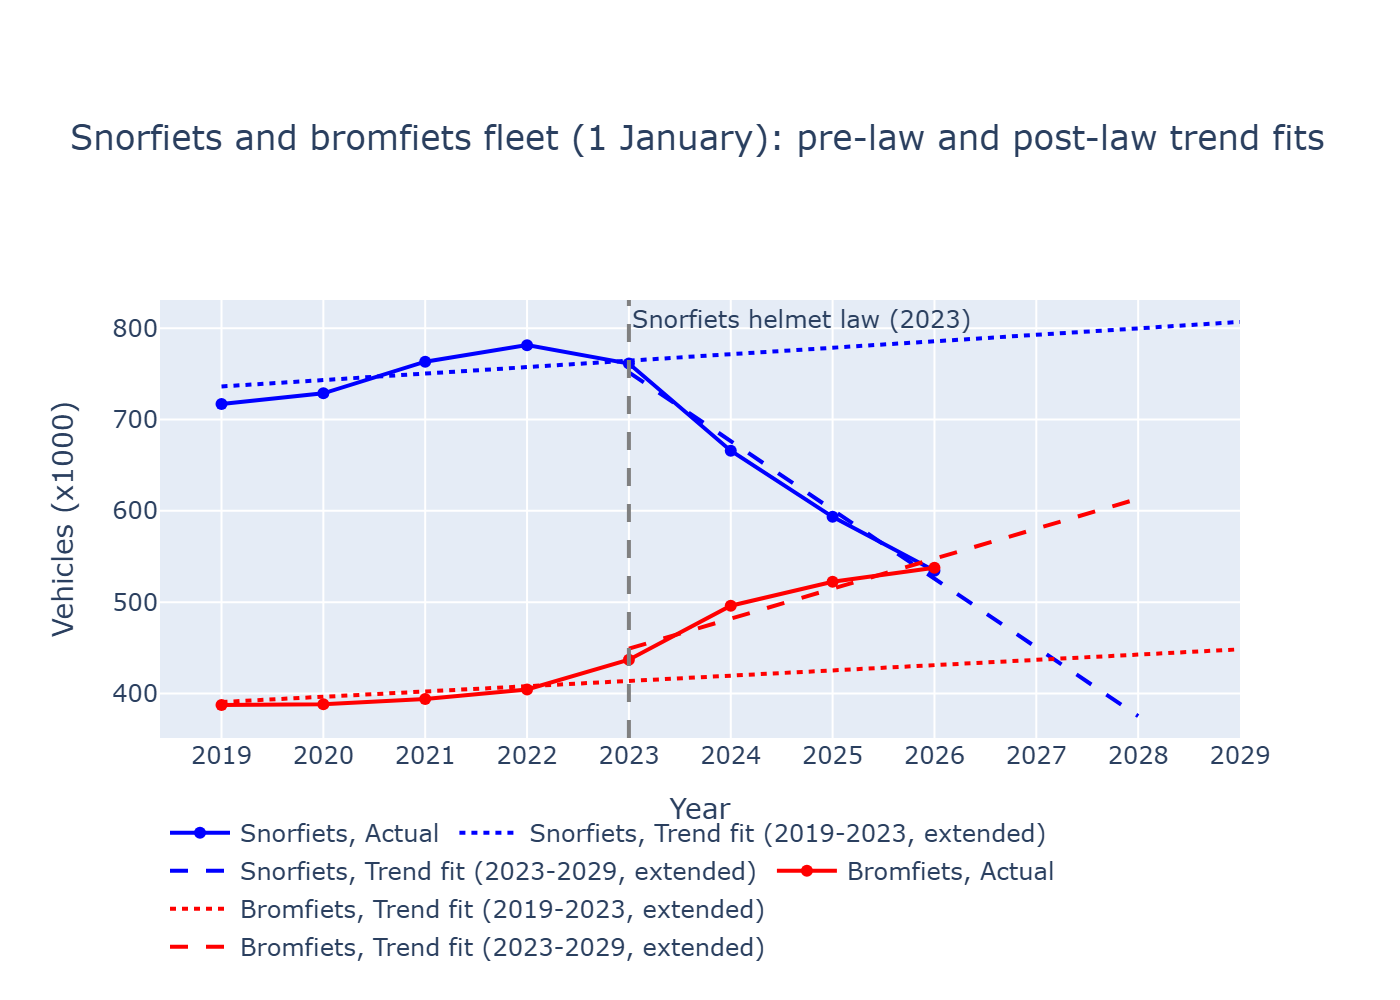
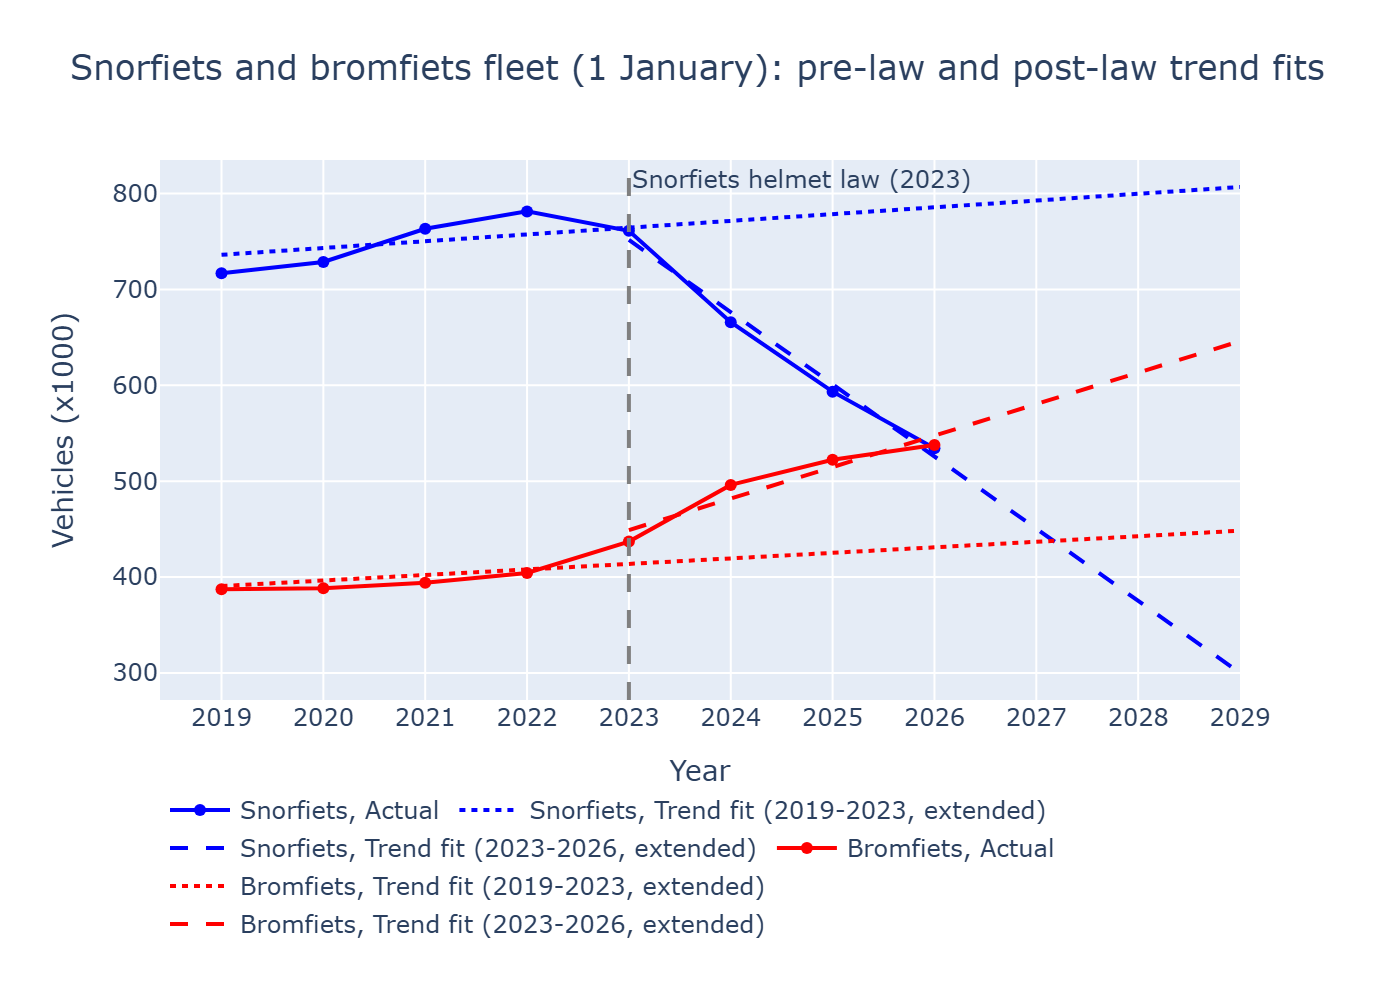
Cleaned up structe and added explainatory text

diff --git a/code/Question2_Mandatory_Helmet_Teens_prediction.py b/code/Question2_Mandatory_Helmet_Teens_prediction.py
@@ -10,6 +10,8 @@
 
 # Sources:
 # https://neo4j.com/blog/graph-data-science/build-predictive-model-python/
+# Aanvullende module Bewegen en Ongevallen van de Leefstijlmonitor, CBS i.s.m. RIVM 2021. Aandeel fietsers 2021-2025
+# https://www.cbs.nl/nl-nl/visualisaties/verkeer-en-vervoer/vervoermiddelen-en-infrastructuur/bromfietsen-snorfietsen
 
 # what do i need?
 # 1. Population growth "snorfiets pupulation"
@@ -25,40 +27,38 @@
 # AI statement I only used Claude Sonnet 5.5 during this assignment for discussing the data structures, 
 # getting help with understanding linear fit implementation in python and making the graphs show the information better.
 
-
-
 import numpy as np
 import pandas as pd
 import plotly.express as px
 import plotly.io as pio
-pio.renderers.default = "notebook"
 from pathlib import Path
 
+pio.renderers.default = "notebook"
+DATA_DIR = Path("data")
 
 # ---------------------- Settings (change these to run sensitivity checks) ---------------------- #
 Snorfiets_Wetgeving_Ingang  = 2023              # national helmet obligation for snorfiets
 Start_Fit                   = 2019              # 
 Covid                       = []                # e.g. [2020, 2021] to leave out the COVID years
 End_Year                    = 2029              # end of the prediction horizon
-Start_Law                   = 2027 #+ 8 / 12    # planned: 1 September 2027
+Start_Law                   = 2027 + 8 / 12     # planned start of the law: 1 September 2027
 Survey_Moment               = 0.5               # treat each e-bike survey year as measured mid-year
 Pre_Flatten                 = 0.5               # 1 = normal least-squares slope, 0 = flat line at the window mean
 
 # ---------------------- Load the data ---------------------- #
-moped_possesion = pd.read_csv(
-    'data/Voertuigen met een bromfietskenteken, 1 januari (x 1 000).csv',
-    sep=';', decimal=',')
+moped_possesion = pd.read_csv(DATA_DIR / "Voertuigen met een bromfietskenteken, 1 januari (x 1 000).csv", sep=";", decimal=",")
 
 # filter the data 
 moped_possesion_filtered = moped_possesion[["Jaar", "Snorfiets", "Bromfiets"]]
 
-# RIVM/CBS Leefstijlmonitor, 12-17 year-olds: share of cycling 12-17 year-olds
-# that cycles electrically (alone or combined with a normal bike)
-ebike_minors = pd.read_csv('data\(Elektrisch)_fietsen_onder_jongeren.csv', sep=';')
+# RIVM/CBS Leefstijlmonitor, 12-17 year-olds, in % of the cycling 12-17 year-olds
+ebike_minors = pd.read_csv(Path("data") / "(Elektrisch)_fietsen_onder_jongeren.csv", sep=';')
+
 ebike_filtered = (ebike_minors[ebike_minors["soort_fiets"] == "elektrisch"]
                   .rename(columns={"jaar": "Jaar", "percentage": "Elektrisch fietsen"})
                   [["Jaar", "Elektrisch fietsen"]]
                   .reset_index(drop=True))
+
 bike_filtered = (ebike_minors[ebike_minors["soort_fiets"] == "uitsluitend_niet_elektrisch"]
                   .rename(columns={"jaar": "Jaar", "percentage": "Normale fietsen"})
                   [["Jaar", "Normale fietsen"]]
@@ -66,7 +66,7 @@ bike_filtered = (ebike_minors[ebike_minors["soort_fiets"] == "uitsluitend_niet_e
 # Used Claude in determining how to read the data
 
 
-# ---------------------- Linear trend fit ---------------------- #
+# ---------------------- Linear trend fit function ---------------------- #
 
 def linear_fit(years, values, exclude=(), flatten=1.0):
     """Least-squares line through (years, values); returns slope, intercept."""
@@ -80,30 +80,30 @@ def linear_fit(years, values, exclude=(), flatten=1.0):
         intercept = y0 - slope *x0
     return slope, intercept
 
-
-
 # ----------------------  Graph 1: snorfiets and bromfiets + trend fits ---------------------- #
 
-pre_law     = moped_possesion_filtered[moped_possesion_filtered["Jaar"].between(Start_Fit, Snorfiets_Wetgeving_Ingang)]
-post_law    = moped_possesion_filtered[moped_possesion_filtered["Jaar"] >= Snorfiets_Wetgeving_Ingang]
-
-years_all   = np.arange(Start_Fit, End_Year + 1)
-years_Pre   = np.arange(Start_Fit, Snorfiets_Wetgeving_Ingang +1)
-years_after = np.arange(Snorfiets_Wetgeving_Ingang, End_Year)
-
-Trend_pre       = f"Trend fit ({Start_Fit}-{Snorfiets_Wetgeving_Ingang}, extended)"
-Trend_after     = f"Trend fit ({Snorfiets_Wetgeving_Ingang}-{End_Year}, extended)"
+pre_law  = moped_possesion_filtered[moped_possesion_filtered["Jaar"].between(Start_Fit, Snorfiets_Wetgeving_Ingang)]
+post_law = moped_possesion_filtered[moped_possesion_filtered["Jaar"] >= Snorfiets_Wetgeving_Ingang]  # 2023 is the shared anchor
+last_actual_year = int(post_law["Jaar"].max())
+ 
+years_all   = np.arange(Start_Fit, End_Year + 1)                    # pre-law trend,  extended to the horizon
+years_after = np.arange(Snorfiets_Wetgeving_Ingang, End_Year + 1)   # post-law trend, extended to the horizon
+ 
+Trend_pre   = f"Trend fit ({Start_Fit}-{Snorfiets_Wetgeving_Ingang}, extended)"
+Trend_after = f"Trend fit ({Snorfiets_Wetgeving_Ingang}-{last_actual_year}, extended)"
 
 
 pre_fits    = {}
 post_fits   = {}
 frames      = []
+
 for vehicle in ["Snorfiets", "Bromfiets"]:
-    pre_fits[vehicle]  = linear_fit(pre_law["Jaar"], pre_law[vehicle], Covid, flatten=Pre_Flatten)
+    pre_fits [vehicle]  = linear_fit(pre_law["Jaar"], pre_law[vehicle], Covid, flatten=Pre_Flatten)
     post_fits[vehicle] = linear_fit(post_law["Jaar"], post_law[vehicle])
-    slope_pre,  icpt_pre  = pre_fits[vehicle]
+    slope_pre,  icpt_pre  = pre_fits [vehicle]
     slope_post, icpt_post = post_fits[vehicle]
 
+# Make dataframes for the 
     frames.append(pd.DataFrame({
         "Year": moped_possesion_filtered["Jaar"],
         "Vehicles (x1000)": moped_possesion_filtered[vehicle],
@@ -140,17 +140,16 @@ fig1.update_xaxes(dtick=1)
 
 fig1.update_layout(
     legend=dict(
-        orientation="h",      # horizontal, so it spreads across the top
+        orientation="h",       
         yanchor="top",
-        y=-0.15,              # just above the plot area
+        y=-0.15,               
         xanchor="left",
         x=0,
-        title_text=""),       # removes the "Vehicle, Type" legend title
-    margin=dict(t=150))       # extra room at the top for the title and legend
+        title_text=""),        
+    margin=dict(t=80, b=150)) 
 
 # ----------------------  Law effect from the snorfiets data  ---------------------- #
 #    effect(t) = 1 - actual / trend-without-law, t = years since the law
-#    (counts are on 1 January, so 2024 = one year after the 2023 law)
 
 snor    = moped_possesion_filtered.set_index("Jaar")["Snorfiets"]
 slope_s, intercept_s = pre_fits["Snorfiets"]          # was: fits["Snorfiets"]
@@ -159,74 +158,89 @@ post    = gap[gap.index > Snorfiets_Wetgeving_Ingang]
 
 effect_t = np.concatenate([[0], (post.index - Snorfiets_Wetgeving_Ingang).to_numpy()])
 effect_v = np.concatenate([[0], post.to_numpy()])
-print("Effect curve (years since law -> share below trend):")
-for t, e in zip(effect_t, effect_v):
-    print(f"  t={t:.0f}: {e:.1%}")
+
+# Check if effect gets calculated 
+# print("Effect curve (years since law -> share below trend):")
+# for t, e in zip(effect_t, effect_v):
+#     print(f"  t={t:.0f}: {e:.1%}")
 
 
 # ---------------------- Graph 2: underage e-bike users, no-law trend vs. with-law trend ---------------------- #
 
 slope_ebikes, intercept_ebikes = linear_fit(ebike_filtered["Jaar"], ebike_filtered["Elektrisch fietsen"])
-slope_bikes , intercept_bikes  = linear_fit(bike_filtered["Jaar"], bike_filtered["Normale fietsen"])
 
 years_bikes = np.arange(ebike_filtered["Jaar"].min(), End_Year + 1)
 baseline_ebikes = slope_ebikes * years_bikes + intercept_ebikes
-baseline_bikes  = slope_bikes  * years_bikes  + intercept_bikes
 
-
-# years since the (planned) e-bike law at each survey moment; np.interp gives 0
-# before the law and holds the last observed effect after year 3
+# years since the (planned) e-bike law at each survey moment
 t_since_law = years_bikes + Survey_Moment - Start_Law
+
 effect = np.interp(t_since_law, effect_t, effect_v)
 with_law = baseline_ebikes * (1 - effect)
+
+# These baselines are for maintainting a 100% "usage" scenario, 
+# with the assumption that those who stop using e-bikes are goint to use normal bikes again
 baseline_non_ebikes = 100 - baseline_ebikes
 with_law_non_ebikes = 100 - with_law
 
-ACT_E     = "Actual e-bike use (RIVM/CBS)"
-ACT_N     = "Actual normal bike use (RIVM/CBS)"
-NO_LAW    = "Prediction without law (trend)"
-LAW       = "Prediction with law (snorfiets effect)"
+GROUP_E = "Electric (incl. mixed use)"
+GROUP_N = "Non-electric only"
+ACTUAL  = "Actual (RIVM/CBS)"
+NO_LAW  = "Prediction without law (trend)"
+LAW     = "Prediction with law (snorfiets effect)"
 
-last_obs = ebike_filtered["Jaar"].max()
+last_obs  = ebike_filtered["Jaar"].max()
 from_last = years_bikes >= last_obs
-df_ebike = pd.concat([
-    pd.DataFrame({"Year": ebike_filtered["Jaar"],
-                  "% of cycling 12-17 year-olds": ebike_filtered["Elektrisch fietsen"],
-                  "Series": ACT_E}),
-    pd.DataFrame({"Year": bike_filtered["Jaar"],
-                  "% of cycling 12-17 year-olds": bike_filtered["Normale fietsen"],
-                  "Series": ACT_N}),
-    pd.DataFrame({
-        "Year": years_bikes,
-        "% of cycling 12-17 year-olds": baseline_non_ebikes,
-        "Series": "Non-e-bike population (without law)"}),
-    pd.DataFrame({
-        "Year": years_bikes[from_last],
-        "% of cycling 12-17 year-olds": with_law_non_ebikes[from_last],
-        "Series": "Non-e-bike population (with law)"
-    }),
-    pd.DataFrame({"Year": years_bikes, "% of cycling 12-17 year-olds": baseline_ebikes, "Series": NO_LAW}),
-    pd.DataFrame({"Year": years_bikes[from_last],"% of cycling 12-17 year-olds": with_law[from_last], "Series": LAW}),
-], ignore_index=True)
+# Making dataframes for eacht section of the timeline, current and speculation with and without the law 
+# --- e-bike users ---
+df_actual_e = pd.DataFrame({
+    "Year": ebike_filtered["Jaar"],
+    "% of cycling 12-17 year-olds": ebike_filtered["Elektrisch fietsen"],
+    "Group": GROUP_E,
+    "Type": ACTUAL})
+
+df_no_law_e = pd.DataFrame({
+    "Year": years_bikes,
+    "% of cycling 12-17 year-olds": baseline_ebikes,
+    "Group": GROUP_E,
+    "Type": NO_LAW})
+
+df_law_e = pd.DataFrame({
+    "Year": years_bikes[from_last],
+    "% of cycling 12-17 year-olds": with_law[from_last],
+    "Group": GROUP_E,
+    "Type": LAW})
+
+# --- non-electric users ---
+df_actual_n = pd.DataFrame({
+    "Year": bike_filtered["Jaar"],
+    "% of cycling 12-17 year-olds": bike_filtered["Normale fietsen"],
+    "Group": GROUP_N,
+    "Type": ACTUAL})
+
+df_no_law_n = pd.DataFrame({
+    "Year": years_bikes,
+    "% of cycling 12-17 year-olds": baseline_non_ebikes,
+    "Group": GROUP_N,
+    "Type": NO_LAW})
+
+df_law_n = pd.DataFrame({
+    "Year": years_bikes[from_last],
+    "% of cycling 12-17 year-olds": with_law_non_ebikes[from_last],
+    "Group": GROUP_N,
+    "Type": LAW})
+
+df_ebike = pd.concat([df_actual_e, df_no_law_e, df_law_e,
+                      df_actual_n, df_no_law_n, df_law_n], ignore_index=True)
 
 fig2 = px.line(
     df_ebike, x="Year", y="% of cycling 12-17 year-olds",
-    color="Series", line_dash="Series", markers=True,
-    color_discrete_map = {
-        ACT_E: "black",
-        ACT_N:  "red",
-        NO_LAW: "green",
-        LAW: "orange",
-        "Non-e-bike population (without law)": "lightgreen",
-        "Non-e-bike population (with law)": "gold"},
-    line_dash_map ={
-        ACT_E   :"solid", 
-        ACT_N   :"solid", 
-        NO_LAW  :"dot",   
-        LAW     :"dash"},
+    color="Group", line_dash="Type", markers=True,
+    color_discrete_map={GROUP_E: "green", GROUP_N: "purple"},
+    line_dash_map={ACTUAL: "solid", NO_LAW: "dot", LAW: "dash"},
     title="Underage (12-17) e-bike use: continued growth vs. helmet law")
 
-fig2.for_each_trace(lambda t: t.update(mode="lines") if t.name not in (ACT_E, ACT_N) else None)
+fig2.for_each_trace(lambda t: t.update(mode="lines") if ACTUAL not in t.name else None)
 
 fig2.add_vline(x=Start_Law, line_dash="dash", line_color="grey",
                annotation_text="Planned helmet law")
@@ -234,17 +248,18 @@ fig2.add_vline(x=Start_Law, line_dash="dash", line_color="grey",
 fig2.update_xaxes(dtick=1)
 fig2.update_layout(
     legend=dict(
-        orientation="h",      # horizontal, so it spreads across the top
+        orientation="h",      
         yanchor="top",
-        y=-0.15,               # just above the plot area
+        y=-0.15,               
         xanchor="left",
         x=0,
-        title_text=""),       # removes the "Vehicle, Type" legend title
-    margin=dict(t=150))       # extra room at the top for the title and legend
+        title_text=""),       
+    margin=dict(t=80, b=150))       
 
-print("\nE-bike scenario (% of cycling 12-17 year-olds):")
-print(pd.DataFrame({"Year": years_bikes, "No law": baseline_ebikes.round(1),
-                    "With law": with_law.round(1)}).tail(5).to_string(index=False))
+# Check if effect gets calculated 
+# print("\nE-bike scenario (% of cycling 12-17 year-olds):")
+# print(pd.DataFrame({"Year": years_bikes, "No law": baseline_ebikes.round(1),
+#                     "With law": with_law.round(1)}).tail(5).to_string(index=False))
 
 
 Graph_folder = Path("graphs")
